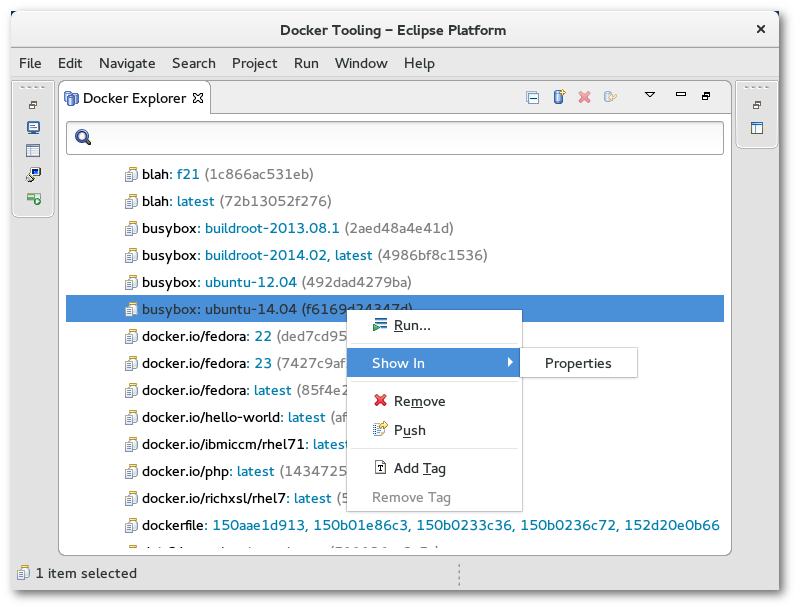
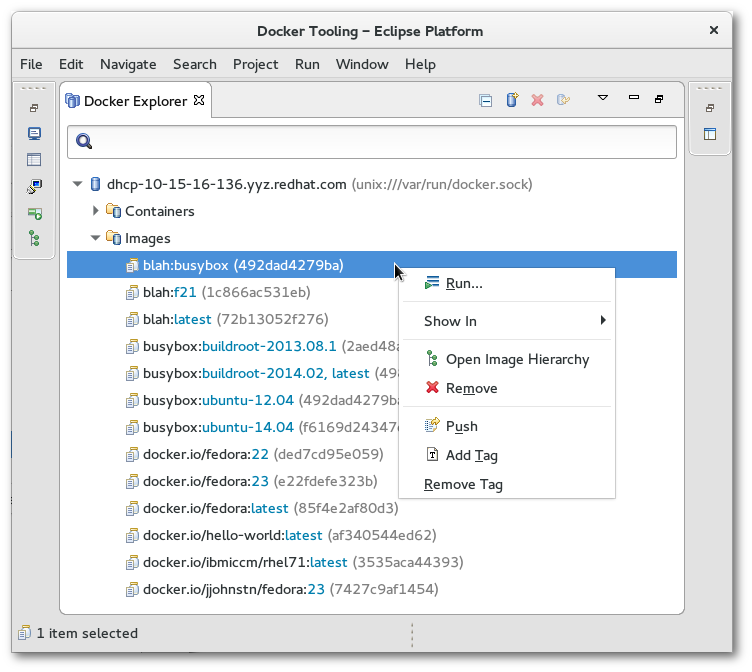
Update Docker docs for Linux Tools 5.1.0 release.
(cherry picked from commit 86409c4c0342a7307fcf5a2a4c0c99bdb0171586)

Changed region(s): [[0.0, 0.0312, 0.9787, 0.9048], [0.0, 0.9048, 0.1835, 0.9672], [0.2141, 0.9672, 0.2753, 0.9984]]

diff --git a/containers/org.eclipse.linuxtools.docker.docs/Linux_Tools_Project/Docker_Tooling/User_Guide/Docker-Tooling-Perspective.html b/containers/org.eclipse.linuxtools.docker.docs/Linux_Tools_Project/Docker_Tooling/User_Guide/Docker-Tooling-Perspective.html
@@ -46,7 +46,9 @@
 				<a href="#Docker_Containers_View">Docker Containers View</a> - view for managing Docker Containers
 			</li>
 		</ul>
-		<p>In addition, the Docker Tooling Perspective adds the Console View and the Properties View.</p>
+		<p>In addition, the Docker Tooling Perspective adds the 
+			<a href="#Docker_Image_Hierarchy_View">Docker Image Hierarchy View</a>, Console View, the Terminal View, and the Properties View.
+		</p>
 		<p>The Console View is used to display logs of stdout/stderr output from Containers and in some instances, allow input to stdin.
 			The Properties View allows clicking on various elements such as Connections, Images, and Containers and getting detailed
 			info not readily shown in the various views mentioned above.</p>
@@ -124,7 +126,11 @@
 			<li>Unpause - continue a paused Container</li>
 			<li>Stop - stop running Containers</li>
 			<li>Kill - kill running Containers</li>
+			<li>Restart - restart Container</li>
 			<li>Show in - show in Properties View</li>
+			<li>
+				<a href="#Docker_Image_Hierarchy_View">Open Image Hierarchy</a> - show parent Image plus its parents in Image Hierarchy View
+			</li>
 			<li>Execute Shell - run a shell in the Terminal View (running Container only)</li>
 			<li>Remove - delete stopped Containers</li>
 			<li>
@@ -133,7 +139,7 @@
 			<li>
 				<a href="#Display_Log">Display Log</a> - display the log for the Container
 			</li>
-			<li>Remove Log - removes the log for the Container from Eclipse Console View</li>
+			<li>Remove Log - removes the log for the Container from Eclipse Console View or Terminal View (tty flag on)</li>
 		</ul>
 		<p>
 			<img border="0" src="images/LinuxToolsExplorerImageContextMenu.png"/>
@@ -144,6 +150,9 @@
 				<a href="#Run_Image">Run</a> - build a Container and run it
 			</li>
 			<li>Show in Properties View</li>
+			<li>
+				<a href="#Docker_Image_Hierarchy_View">Open Image Hierarchy</a> - show parent Image plus its parents in Image Hierarchy View
+			</li>
 			<li>Remove - delete selected Images</li>
 			<li>
 				<a href="#Push_Image">Push</a> - push an Image to a registry
@@ -206,20 +215,30 @@
 			<li>
 				<a href="#Remove_Tag">Remove Tag</a> - remove a tag from an Image with multiple repo tags
 			</li>
+			<li>
+				<img border="0" src="images/LinuxToolsDockerOpenImageHierarchy.png"/> - 
+				<a href="#Docker_Image_Hierarchy_View">Open Image Hierarchy</a>
+			</li>
 		</ul>
 		<p>The text entry below the Connection name is used to search/filter the contents of the list.
 			Anything typed in the filter text widget is used to match items in the list (any column) and
 			any row without a match is excluded.</p>
 		<h3 id="Pull_Image">Pull Image</h3>
 		<p>Pulling a Docker Image consists of requesting a repo tag or repository specification from
-			a registry.  Specifying a repository with no tag will pull all Images from that repo (for example: fedora).</p>
-		<p>The pull Wizard is used to specify the repository or repo:tag specification and the registry to use.</p>
+			a registry.  Specifying a repository with no tag will pull the Image with tag: latest from that repo (for example: fedora
+			will pull fedora:latest).</p>
+		<p>The pull Wizard is used to specify the repository or repo:tag specification and the registry account to use.</p>
 		<p>
 			<img border="0" src="images/LinuxToolsDockerPullWizard.png"/>
 		</p>
 		<p>By default, the Docker Hub registry will be used, however, a user may
-			specify an additional private registry if desired.  Additional registries are added using
-			Windows -&gt; Preferences -&gt; Docker -&gt; Registry Accounts.</p>
+			specify an additional private registry if desired.  Additional registries can be added by clicking
+			on 
+			<b>
+				<i>Add a registry account...</i>
+			</b> or going to
+			Windows -&gt; Preferences -&gt; Docker -&gt; Registry Accounts.
+		</p>
 		<p>The user can either fill in the complete name of the image to download or a search can be performed
 			using the Search button.  This brings up the Search Image Wizard.</p>
 		<p>
@@ -249,6 +268,13 @@
 			via Window -&gt; Preferences -&gt; Docker -&gt; Registry Accounts.  This is needed when authorization is required
 			by the registry for the specified repo.  Using the aforementioned tag method assumes no authorization
 			required.</p>
+		<p>As well, a new tag can be specified at the time of the push.  This new tag is not retained unless
+			specified in the options.</p>
+		<p>Options are available to:</p>
+		<ul>
+			<li>force tag - instruct client to force tag (e.g. needed if replacing an image with same tag in a repository)</li>
+			<li>keep tagged image upon completion - when pushing an image with a new tag, should tag be kept</li>
+		</ul>
 		<p>
 			<img border="0" src="images/LinuxToolsDockerPushWizard.png"/>
 		</p>
@@ -512,10 +538,15 @@
 			<li>Commit Container - 
 				<a href="#Commit_Container">commit all changes of a selected Container into a new Image</a>
 			</li>
+			<li>Restart - restart a Container (will wait to stop a running Container, then will kill it before starting again)</li>
 			<li>Display Log - 
 				<a href="#Display_Log">display the stdout/stderr logs of a selected Container in the Console View</a>
 			</li>
 			<li>Remove Log - remove the stdout/stderr logs of a selected Container from the Console View</li>
+			<li>
+				<img border="0" src="images/LinuxToolsDockerOpenImageHierarchy.png"/> - 
+				<a href="#Docker_Image_Hierarchy_View">Open Image Hierarchy for Container</a>
+			</li>
 		</ul>
 		<h3 id="Commit_Container">Commit Container</h3>
 		<p>The Commit Container dialog is simple.</p>
@@ -559,11 +590,25 @@
 			</li>
 			<li>timestamps - by default they are added</li>
 		</ul>
+		<h2 id="Docker_Image_Hierarchy_View">Docker Image Hierarchy View</h2>
+		<p>
+			<img border="0" src="images/LinuxToolsDockerImageHierarchyView.png"/>
+		</p>
+		<p>The Image Hierarchy View displays a hierarchy of Images starting at a particular Image or Container
+			back to its earliest parent Image.  A parent Image is one that is used in a Build Image action.
+			In the case where the Image Hierarchy is started from an Image, all of its existing Containers are
+			shown as children.  In the case where the Image Hierarchy is started from a Container, just the
+			selected Container is shown under the Image used to create it.</p>
+		<p>Context menu actions are available for the Docker Images and Docker Containers in the View.  These
+			match those found in the 
+			<a href="#Docker_Explorer_Context_Menu">Docker Explorer View context menu</a>.
+		</p>
 		<h2 id="Properties_View">Properties View</h2>
-		<p>The Properties View will respond to selections in the three Docker Tooling Views: 
+		<p>The Properties View will respond to selections in the four Docker Tooling Views: 
 			<a href="#Docker_Explorer_View">Docker Explorer View</a>, 
-			<a href="#Docker_Images_View">Docker Images View</a>, and the 
-			<a href="#Docker_Containers_View">Docker Containers View</a>.  The data shown will depend on what is being selected:
+			<a href="#Docker_Images_View">Docker Images View</a>, 
+			<a href="#Docker_Containers_View">Docker Containers View</a>, and the 
+			<a href="#Docker_Image_Hierarchy_View">Docker Image Hierarchy View</a>.  The data shown will depend on what is being selected:
 		</p>
 		<ul>
 			<li>Docker Connection</li>
